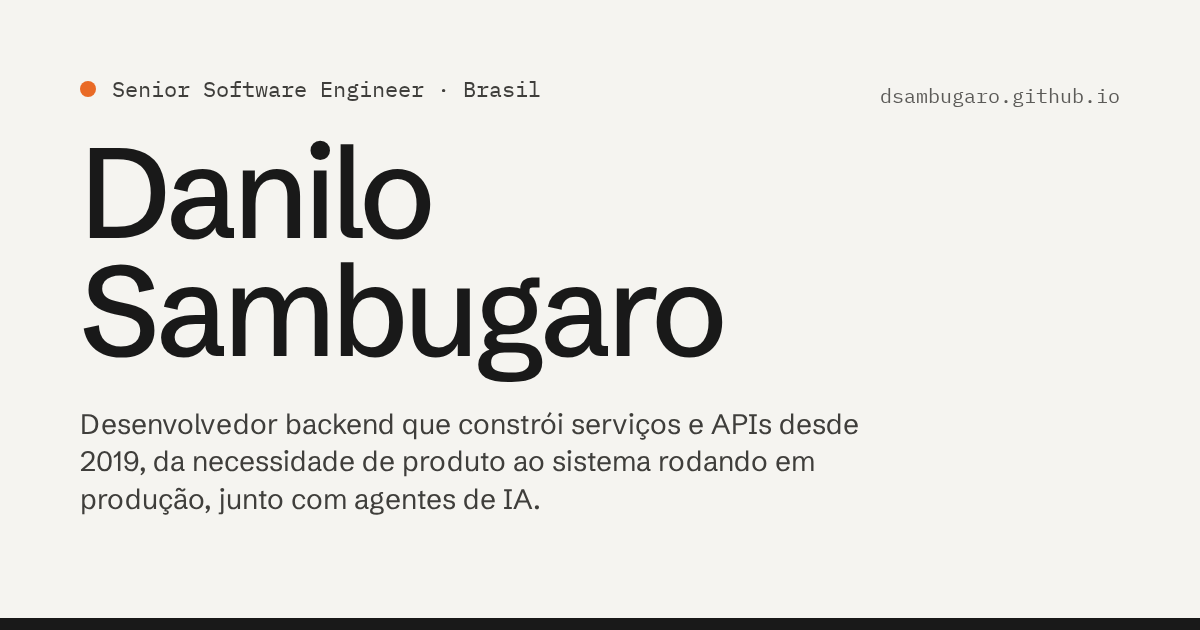
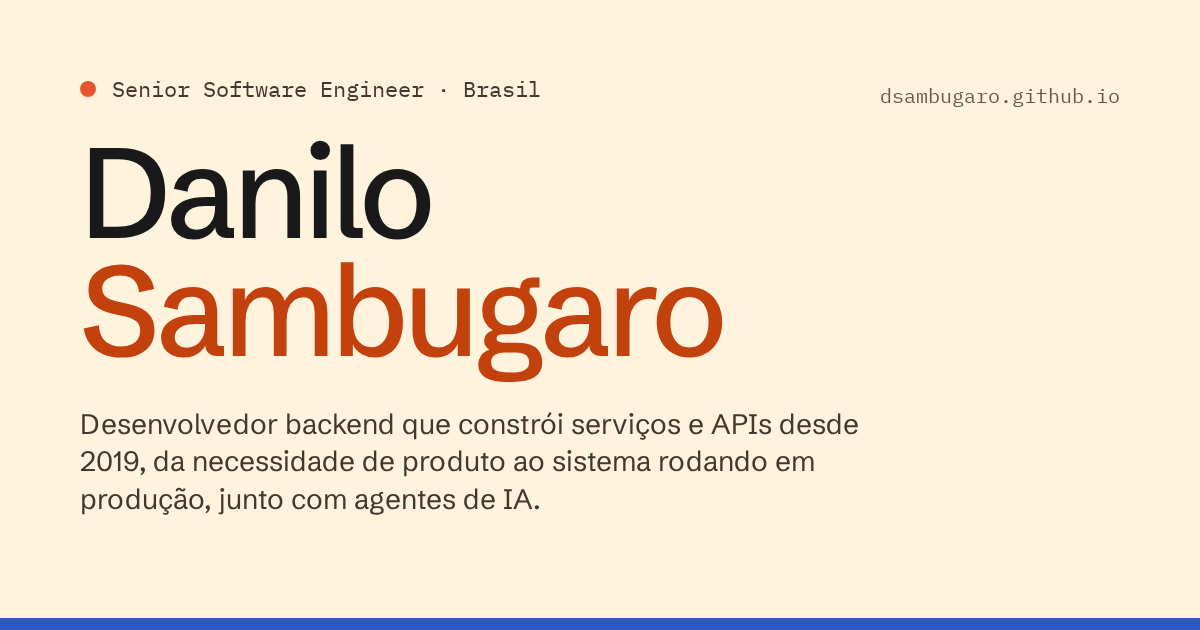
feat: colourful palette by default, gray-and-rain easter egg, dynamic years
- Warm colourful palette is now the default; the portrait is in colour.
- Clicking the portrait spins it into a gray mood with a short rain;
  clicking again restores colour with confetti.
- Intro says \"more than N years\", N computed from April 2019 in the
  browser so it stays current without a rebuild.
- \"building\" -> \"shipping\" (EN), \"coloco em produção\" (PT).

Changed region(s): [[0.0617, 0.4222, 0.6167, 0.6032], [0.0, 0.9651, 1.0, 1.0]]

diff --git a/src/styles/global.css b/src/styles/global.css
@@ -1,18 +1,21 @@
-/* Direction: dieter-rams-braun. Paper ground, one grotesk, sharp corners,
-   no shadows, one signal-orange dot (the "power" light) and nothing else in colour. */
+/* Default: warm, colourful palette. Clicking the portrait (easter egg) switches
+   to "gray" mood: the original paper-and-ink Braun palette, photo in grayscale. */
 
 :root {
   color-scheme: light;
 
   /* Colour, light */
-  --bg: #f5f4f0;
-  --surface: #ebe9e3;
-  --ink: #191919;
-  --ink-2: #3f3e3b;
-  --muted: #5c5b58;
-  --line: #d3d0c8;
-  --accent: #e96a26;
-  --btn-hover: #383735;
+  --bg: #fff3dd;
+  --surface: #ffe6bd;
+  --ink: #1c1917;
+  --ink-2: #44372b;
+  --muted: #6b5743;
+  --line: #efc98a;
+  --accent: #e4572e;
+  --btn-bg: #2b59c3;
+  --btn-fg: #ffffff;
+  --btn-hover: #234aa3;
+  --name-2: #c2410c;
 
   /* Type */
   --font-sans: 'Schibsted Grotesk', ui-sans-serif, system-ui, sans-serif;
@@ -49,47 +52,6 @@
 @media (prefers-color-scheme: dark) {
   :root:not([data-theme='light']) {
     color-scheme: dark;
-    --bg: #161615;
-    --surface: #201f1e;
-    --ink: #edebe6;
-    --ink-2: #cfcdc7;
-    --muted: #a3a19b;
-    --line: #363532;
-    --accent: #f07a38;
-    --btn-hover: #d6d4ce;
-  }
-}
-
-:root[data-theme='dark'] {
-  color-scheme: dark;
-  --bg: #161615;
-  --surface: #201f1e;
-  --ink: #edebe6;
-  --ink-2: #cfcdc7;
-  --muted: #a3a19b;
-  --line: #363532;
-  --accent: #f07a38;
-  --btn-hover: #d6d4ce;
-}
-
-/* Party mode (easter egg, toggled by clicking the portrait): warmer ground,
-   more colour. Same structure, only the tokens change. */
-:root[data-joy='on'] {
-  --bg: #fff3dd;
-  --surface: #ffe6bd;
-  --ink: #1c1917;
-  --ink-2: #44372b;
-  --muted: #6b5743;
-  --line: #efc98a;
-  --accent: #e4572e;
-  --btn-bg: #2b59c3;
-  --btn-fg: #ffffff;
-  --btn-hover: #234aa3;
-  --name-2: #c2410c;
-}
-
-@media (prefers-color-scheme: dark) {
-  :root[data-joy='on']:not([data-theme='light']) {
     --bg: #13263a;
     --surface: #1b3350;
     --ink: #fdf6ea;
@@ -104,7 +66,8 @@
   }
 }
 
-:root[data-joy='on'][data-theme='dark'] {
+:root[data-theme='dark'] {
+  color-scheme: dark;
   --bg: #13263a;
   --surface: #1b3350;
   --ink: #fdf6ea;
@@ -116,6 +79,51 @@
   --btn-fg: #1c1917;
   --btn-hover: #ffd84d;
   --name-2: #ffb27a;
+}
+
+/* Gray mood (easter egg). */
+:root[data-mood='gray'] {
+  --bg: #f5f4f0;
+  --surface: #ebe9e3;
+  --ink: #191919;
+  --ink-2: #3f3e3b;
+  --muted: #5c5b58;
+  --line: #d3d0c8;
+  --accent: #8a8885;
+  --btn-bg: #191919;
+  --btn-fg: #f5f4f0;
+  --btn-hover: #383735;
+  --name-2: #191919;
+}
+
+@media (prefers-color-scheme: dark) {
+  :root[data-mood='gray']:not([data-theme='light']) {
+    --bg: #161615;
+    --surface: #201f1e;
+    --ink: #edebe6;
+    --ink-2: #cfcdc7;
+    --muted: #a3a19b;
+    --line: #363532;
+    --accent: #7d7b77;
+    --btn-bg: #edebe6;
+    --btn-fg: #161615;
+    --btn-hover: #d6d4ce;
+    --name-2: #edebe6;
+  }
+}
+
+:root[data-mood='gray'][data-theme='dark'] {
+  --bg: #161615;
+  --surface: #201f1e;
+  --ink: #edebe6;
+  --ink-2: #cfcdc7;
+  --muted: #a3a19b;
+  --line: #363532;
+  --accent: #7d7b77;
+  --btn-bg: #edebe6;
+  --btn-fg: #161615;
+  --btn-hover: #d6d4ce;
+  --name-2: #edebe6;
 }
 
 *,
@@ -162,7 +170,8 @@ body {
   }
 }
 
-.confetti {
+.confetti,
+.rain {
   position: fixed;
   inset: 0;
   width: 100%;

diff --git a/src/i18n/content.ts b/src/i18n/content.ts
@@ -22,7 +22,7 @@ export type Copy = {
   intro: string;
   linksLabel: string;
   newTab: string;
-  joy: string;
+  mood: string;
 };
 
 const en: Copy = {
@@ -31,17 +31,17 @@ const en: Copy = {
   meta: {
     title: 'Danilo Sambugaro, Senior Software Engineer',
     description:
-      'Backend developer building services and APIs since 2019, from a product need to a system running in production, working alongside AI agents.',
+      'Backend developer shipping services and APIs since 2019, from a product need to a system running in production, working alongside AI agents.',
   },
   langSwitch: { label: 'Ler em português', short: 'PT' },
   theme: { toDark: 'Switch to dark theme', toLight: 'Switch to light theme' },
   role: 'Senior Software Engineer',
   country: 'Brazil',
   intro:
-    'I’m a backend developer building services and APIs since 2019. I take a product need, shape the backend behind it and keep it running in production, working alongside AI agents with clear specs and checks at every step.',
+    'I’m a backend developer who has been shipping services and APIs for more than {years} years. I take a product need, shape the backend behind it and keep it running in production, working alongside AI agents with clear specs and checks at every step.',
   linksLabel: 'Find me online',
   newTab: 'opens in a new tab',
-  joy: 'Party mode',
+  mood: 'Gray mode',
 };
 
 const pt: Copy = {
@@ -57,10 +57,20 @@ const pt: Copy = {
   role: 'Senior Software Engineer',
   country: 'Brasil',
   intro:
-    'Sou desenvolvedor backend e construo serviços e APIs desde 2019. Pego uma necessidade de produto, desenho o backend por trás dela e mantenho tudo rodando em produção, trabalhando junto com agentes de IA, com specs claras e verificação em cada etapa.',
+    'Sou desenvolvedor backend e coloco serviços e APIs em produção há mais de {years} anos. Pego uma necessidade de produto, desenho o backend por trás dela e mantenho tudo rodando, trabalhando junto com agentes de IA, com specs claras e verificação em cada etapa.',
   linksLabel: 'Onde me encontrar',
   newTab: 'abre em nova aba',
-  joy: 'Modo festa',
+  mood: 'Modo cinza',
 };
 
 export const copy: Record<Lang, Copy> = { en, pt };
+
+// First job started in April 2019. The page shows "more than N years", so N is the
+// number of full years since then. The page script repeats this in the browser, so the
+// number stays right without a rebuild.
+export const careerStart = { year: 2019, month: 3 }; // month is 0-based (3 = April)
+
+export function fullYearsSince(now = new Date()): number {
+  const years = now.getFullYear() - careerStart.year;
+  return now.getMonth() < careerStart.month ? years - 1 : years;
+}
